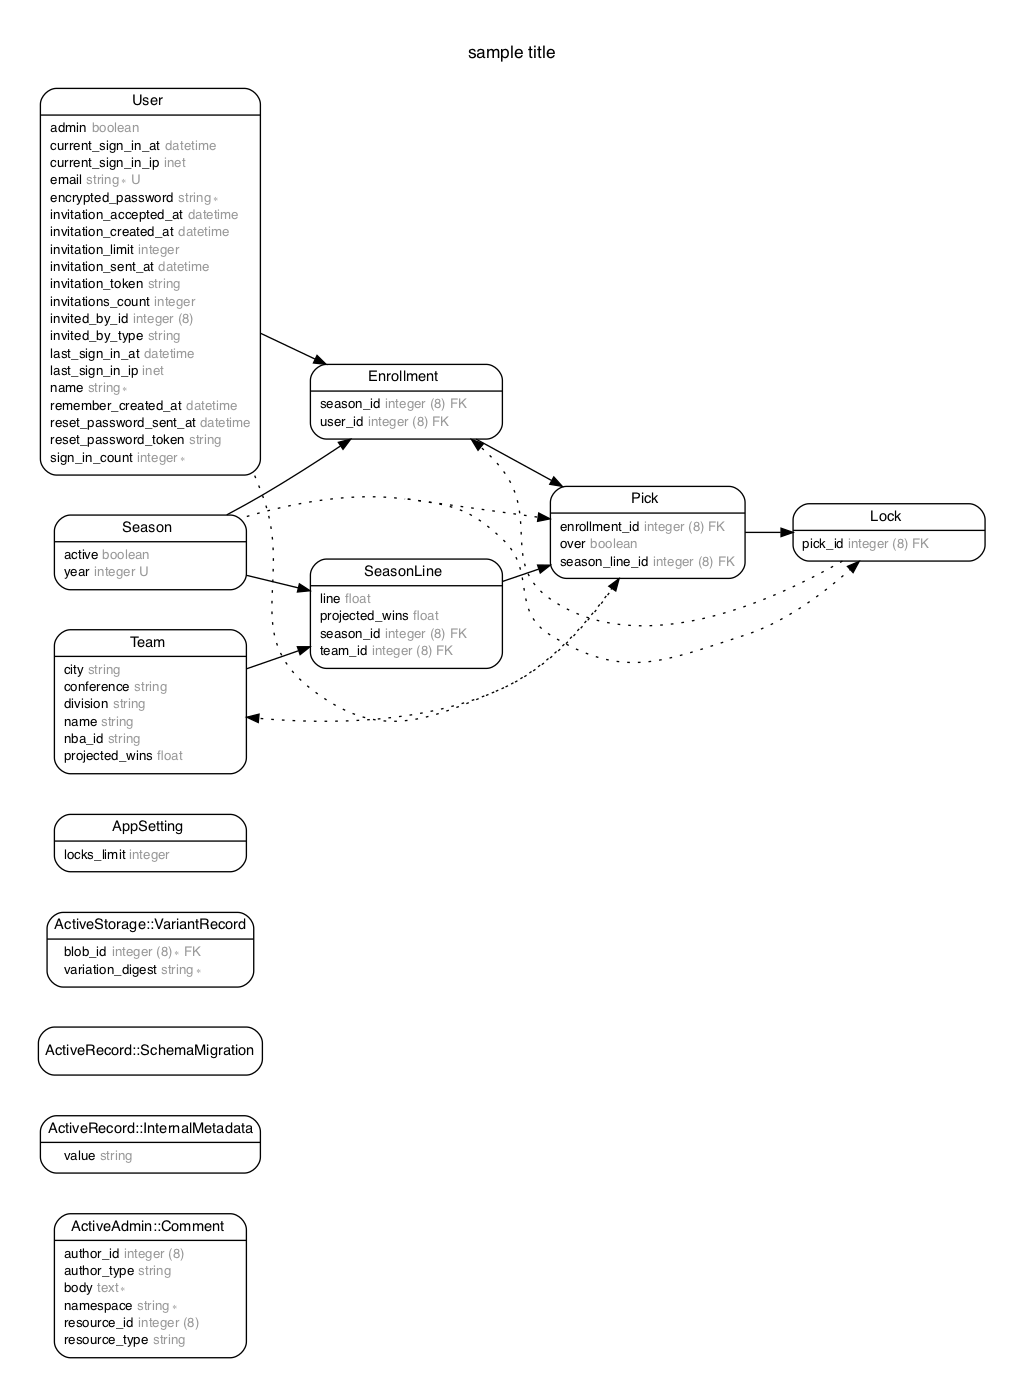
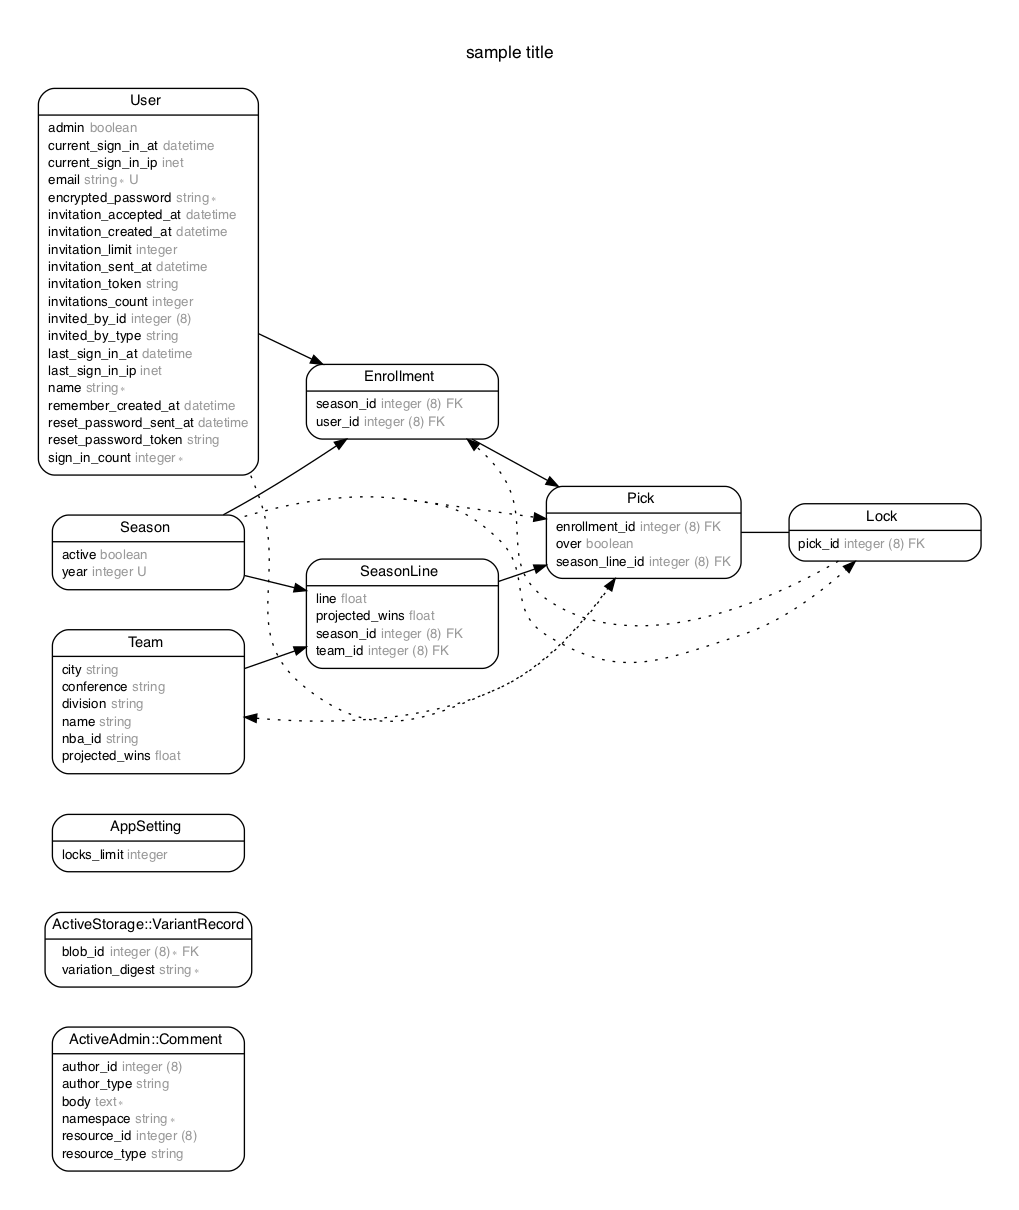
Get Locking AJAX working

diff --git a/app/controllers/picks_controller.rb b/app/controllers/picks_controller.rb
@@ -3,7 +3,7 @@ class PicksController < ApplicationController
 
   def index
     @user = User.find_by_email("logandsprice@gmail.com")
-    @picks = @user.picks.joins(:team).merge(Team.order(name: :asc))
+    @picks = @user.picks.includes(:season_line, :team).joins(:team).merge(Team.order(name: :asc))
 
     teams_by_conference = Team.all.group_by { |team| team.conference }
     @teams_by_division = teams_by_conference.transform_values { |teams| teams.group_by { |team| team.division } }
@@ -12,7 +12,9 @@ class PicksController < ApplicationController
   def update
     # error clause for if it fails to update
     
-    @pick.update(pick_params)
+    @pick.reload unless @pick.update(pick_params)
+
+    
   end
 
   private
@@ -23,5 +25,7 @@ class PicksController < ApplicationController
   
   def pick_params
     @pick_params ||= params.require(:pick).permit!
+    @pick_params[:lock_attributes] = @pick_params[:lock_attributes].reject {|k,v| v[:should_create] != "1"}
+    @pick_params
   end
 end

diff --git a/app/models/pick.rb b/app/models/pick.rb
@@ -17,7 +17,7 @@
 #
 
 class Pick < ApplicationRecord
-  has_many  :locks, dependent: :destroy
+  has_one :lock, dependent: :destroy
   belongs_to :enrollment
   belongs_to :season_line
   has_one  :season, through: :enrollment
@@ -25,6 +25,8 @@ class Pick < ApplicationRecord
   has_one  :user, through: :enrollment
 
   validates_uniqueness_of :season_line, scope: :enrollment
+
+  accepts_nested_attributes_for :lock
 
   def score
     if over && team.over?
@@ -48,5 +50,9 @@ class Pick < ApplicationRecord
 
   def team_city
     team.city
+  end
+
+  def locked?
+    !lock.nil? && lock.persisted?
   end
 end

diff --git a/app/controllers/locks_controller.rb b/app/controllers/locks_controller.rb
@@ -1,0 +1,24 @@
+class LocksController < ApplicationController
+  def create
+    @lock = Lock.new(lock_params)
+
+    if @lock.save
+      render "replace_lock"
+    else
+      @lock = Lock.new(lock_params)
+    end
+  end
+  
+  def destroy
+    pick = Pick.find(params[:pick_id])
+    pick.lock.destroy
+    @lock = pick.build_lock
+    render "replace_lock", locals: { pick: pick }
+  end
+
+  private
+
+  def lock_params
+    @lock_params ||= params.require(:lock).permit(:pick_id)
+  end
+end

diff --git a/config/routes.rb b/config/routes.rb
@@ -6,7 +6,9 @@ Rails.application.routes.draw do
   root "seasons#index"
 
   # resources :users
-  resources :picks, only: [:index, :update]
+  resources :picks, only: [:index, :update] do 
+    resource :lock
+  end
   resources :seasons do 
     resources :season_lines, only: [:index]
   end

diff --git a/app/models/lock.rb b/app/models/lock.rb
@@ -16,6 +16,10 @@
 #  fk_rails_...  (pick_id => picks.id)
 #
 class Lock < ApplicationRecord
+  model_name.instance_variable_set(:@route_key, 'lock')
+  
+  attr_accessor :should_create
+
   belongs_to :pick
   has_one  :enrollment, through: :pick
 
